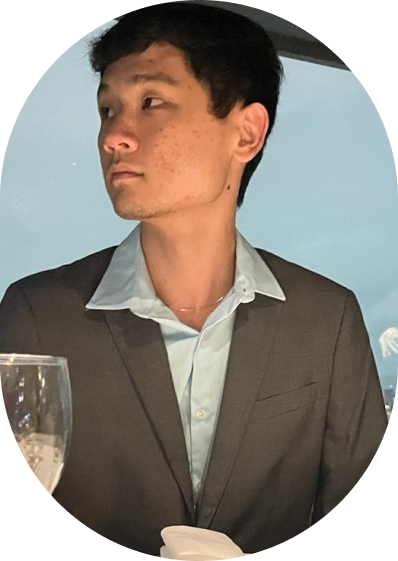
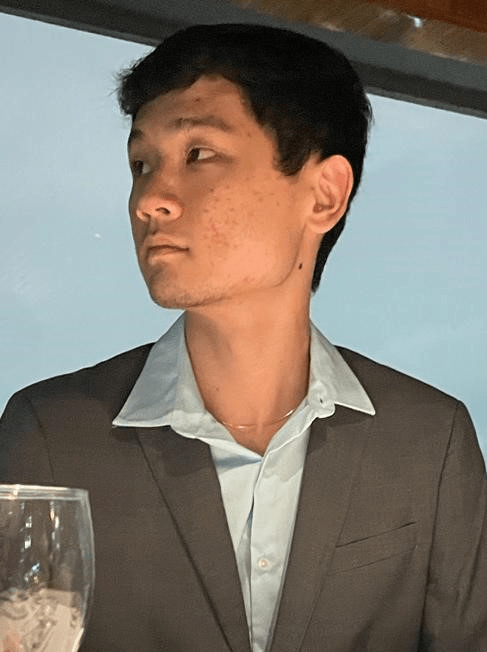
first screen & sobre mim

diff --git a/index.html b/index.html
@@ -13,46 +13,54 @@
     <img src="/img/header.png" id="pergaminho" onclick="subir_pergaminho()">
     <h3 id="click_pergaminho">Clique no pergaminho</h3>
     <main class="container_main">
-        <!-- <div class="papiro"> -->
-            <h2>Olá, me chamo</h2>
-            <h1>Alexandre Shiguemi Ito</h1>
-            <h2>Sou desenvolvedor Full-Stack</h2>
-            <img src="/img/origami.png" alt="tsuru" id="tsuru">
-            <div class="botao_inicial">
-                <a href="https://www.linkedin.com/in/alexandreshiguemi/">
-                    <img src="/img/linkedin.png" alt="linkedin" id="linkedinicon">
-                    <input type="button" value="Linkedin" class="botaolink">
-                </a>
-                <a href="https://github.com/ShiguemiAlexandre">
-                    <img src="/img/github.png" alt="github" id="githubicon">
-                    <input type="button" value="Github" class="botaogit">
-                </a>
+
+        <div class="inicio">
+            <div class="texto_inicial">
+                <h2 id="ola">Olá, me chamo</h2>
+                <h1 id="nome">Alexandre Shiguemi Ito</h1>
+                <h2 id="status">Sou desenvolvedor Full-Stack</h2>
             </div>
-            <h2>Sobre mim</h2>
-            <img src="/img/ito.png" alt="ito" id="myphoto">
-            <h3>Araraquara, São Paulo</h3>
-            <h4>
-                Sou estudante de Análise e Desenvolvimento de Sistemas na UNIP. Comecei meus estudos em programação por conta própria em janeiro de 2022 e,
-                em julho do mesmo ano, comecei oficialmente a faculdade. Estou sempre buscando evoluir cada vez mais e expandir meus conhecimentos em programação.
-                Sou apaixonado por tecnologia e estou animado para explorar todos os aspectos da programação e desenvolvimento de sistemas.
-            </h4>ss
+                <div class="tsuru_pai">
+                    <img src="/img/origami.png" alt="tsuru" id="tsuru">
+                </div>
+            <div class="botao_inicial">    
+                <img src="/img/linkedin.png" alt="linkedin" id="linkedinicon">
+                    <a href="https://www.linkedin.com/in/alexandreshiguemi/">
+                        <input type="button" value="Linkedin" id="botaolink">
+                    </a>
+                <img src="/img/github.png" alt="github" id="githubicon">
+                    <a href="https://github.com/ShiguemiAlexandre">
+                        <input type="button" value="Github" id="botaogit">
+                    </a>
+            </div>        
+        </div>
 
-            <h3>Técnologias</h3>
-            <img src="/img/html.png" alt="html">
-            <img src="/img/css.png" alt="css">
-            <img src="/img/js.png" alt="js">
-            <img src="/img/c.png" alt="c">
-            <img src="/img/python.png" alt="python">
-            <img src="/img/git.png" alt="git">
+        <div class="sobre">
+            <div class="photo">
+                <img src="/img/ito.png" alt="ito" id="myphoto">
+            </div>
+            <div class="sobremim">
+                <h2 id="sobre_tittle">Sobre mim</h2>
+                <h3>Araraquara, São Paulo</h3>
+                <h4 id="sobre_text">
+                    Sou estudante de Análise e Desenvolvimento de Sistemas na UNIP. Comecei meus estudos em programação por conta própria em janeiro de 2022 e,
+                    em julho do mesmo ano, comecei oficialmente a faculdade. Estou sempre buscando evoluir cada vez mais e expandir meus conhecimentos em programação.
+                    Sou apaixonado por tecnologia e estou animado para explorar todos os aspectos da programação e desenvolvimento de sistemas.
+                </h4>
+            </div>
+        </div>
+        <h3>Técnologias</h3>
+        <img src="/img/html.png" alt="html">
+        <img src="/img/css.png" alt="css">
+        <img src="/img/js.png" alt="js">
+        <img src="/img/c.png" alt="c">
+        <img src="/img/python.png" alt="python">
+        <img src="/img/git.png" alt="git">
 
-            <h3>Projetos</h3>
-            <img src="/img/pmc.png" alt="pmc" id="pmc">
-            <img src="/img/under.jpg" alt="under" id="under">
-
-
-
-        <!-- </div> -->
-    </main>
+        <h3>Projetos</h3>
+        <img src="/img/pmc.png" alt="pmc" id="pmc">
+        <img src="/img/under.jpg" alt="construction" id="construction">
+</main>
 
 </body>
 </html> 

diff --git a/stylesheets/style.css b/stylesheets/style.css
@@ -1,8 +1,8 @@
-
-body{
+ @import url('https://fonts.googleapis.com/css2?family=Courgette&family=IM+Fell+English&family=IM+Fell+English+SC&family=Kalam:wght@700&family=Lobster&family=Share+Tech&display=swap');
+ @import url('https://fonts.googleapis.com/css2?family=Courgette&family=IM+Fell+English&family=IM+Fell+English+SC&family=Kalam:wght@700&family=Lobster&family=Share+Tech&display=swap');
+ body{
     background-image: url(/img/background.jpg);
 }
-
 /*Scrolling*/
 
 ::-webkit-scrollbar{
@@ -31,14 +31,13 @@ body{
 #click_pergaminho{
     display: grid;
     place-items: center;
-    color: white;
-    background-color: rgb(60, 60, 255);
-    max-width: 10vw;
+    color: rgb(0, 0, 0);
+    background-color: rgb(118, 118, 225);
+    width: 13vw;
     border-radius: 10px 10px 10px 10px;
     margin: 0 auto;
     font-size: 1vw;
-    margin-top: 0;
-    box-sizing: border-box;
+    font-family: 'IM Fell English', serif;
 }
 /*Abertura de pergaminho*/
 .open{
@@ -59,6 +58,7 @@ main{
     transition: all 10s;
     transform: translateY(20%);
     z-index: 2;
+    border-radius: 20px 20px 20px 20px;
 }
 @keyframes fade-in-top {
     0% {
@@ -72,29 +72,115 @@ main{
         opacity: 1;
     }
     100% {
-      transform: translateY(-31.5vh);
+      transform: translateY(-28.5vh);
       opacity: 1;
     }
   }
 
 
 /*Style img*/
+
 #tsuru{
-    max-width: 20%;
+    max-width: 30%;
 }
-#myphoto{
-    max-width: 20%;
+.tsuru_pai{
+    display: flex;
+    align-items: center;
+    justify-content: center;
 }
 #linkedinicon{
-    max-width: 2%;
+    max-width: 2vw;
 }
 #githubicon{
-    max-width: 2%;
+    max-width: 2vw;
 }
 #pmc{
     max-width: 50%;
     border-radius: 30px 30px 30px 30px;
 }
-#under{
+#construction{
     max-width: 20%;
 }
+
+/*First Screen*/
+
+/*topo | direita | inferior | esquerda*/
+
+a {
+    text-decoration: none;
+}
+.inicio{
+    font-family: 'IM Fell English', serif;
+    display: grid;
+    grid-template-columns: 1fr 1fr;
+}
+#ola{
+    font-size: 2vw;
+    margin: 10vh 0 0 10vw;
+}
+#nome{
+    font-size: 3vw;
+    margin: 5vh 0 0 11vw
+}
+#status{
+    font-size: 2vw;
+    margin: 5vh 0 0 10vw;
+}
+.botao_inicial{
+    margin: 2vh 0 20vh 10vw;
+    display: flex;
+    align-items: center;
+    justify-content: center;
+}
+#botaogit{
+    background-color: black;
+    color: white;
+    border-radius: 5px 5px 5px 5px;
+    cursor: pointer;
+}
+#botaolink{
+    background-color: black;
+    color: white;
+    border-radius: 5px 5px 5px 5px;
+    cursor: pointer;
+    margin-right: 1vw;
+}
+
+/*Sobre*/
+
+.sobre{
+    display: grid;
+    grid-template-columns: repeat(2, 1fr);
+    grid-template-areas: 
+    "area1 area2";
+    font-family: 'IM Fell English', serif;
+}
+#myphoto{
+    place-items: center;
+    grid-area: area1;
+    max-width: 22vw;
+    box-shadow: 0 0 10px rgba(0, 0, 0, 0.5);
+    border-radius: 50%;
+}
+#myphoto:hover{
+    transition: all 0.5s;
+    box-shadow: 0 0 20px blue;
+}
+
+.photo{
+    display: flex;
+    align-items: center;
+    justify-content: center;
+}
+.sobremim{
+    grid-area: area2;
+}
+#sobre_text{
+    width: 35vw;
+}
+#sobre_tittle{
+    font-size: 3vw;
+}
+
+/*Tecnology*/
+
